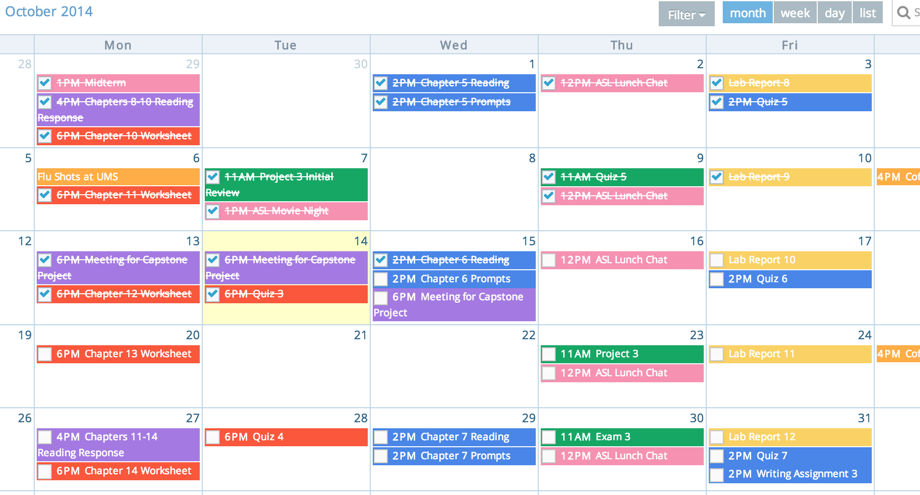
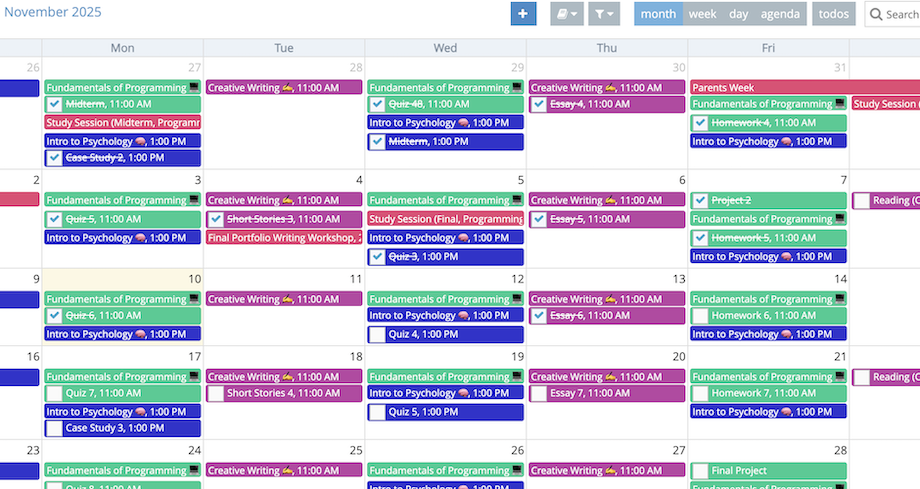
Updated screenshots to the modern UI.

diff --git a/src/templates/press.html b/src/templates/press.html
@@ -71,8 +71,8 @@
                         <div class="col-sm-4"><a href="{{ ASSETS_PREFIX }}/img/slider_5.png" target="_blank"><img
                                 src="{{ ASSETS_PREFIX }}/img/slider_5.png" class="thumbnail"
                             style="max-width: 200px"/></a></div>
-                        <div class="col-sm-4"><a href="{{ ASSETS_PREFIX }}/img/filter_view.png" target="_blank"><img
-                                src="{{ ASSETS_PREFIX }}/img/filter_view.png" class="thumbnail"
+                        <div class="col-sm-4"><a href="{{ ASSETS_PREFIX }}/img/slider_6.png" target="_blank"><img
+                                src="{{ ASSETS_PREFIX }}/img/slider_6.png" class="thumbnail"
                             style="max-width: 200px"/></a>
                         </div>
                         <div class="col-sm-4"><a href="{{ ASSETS_PREFIX }}/img/feature_4.png" target="_blank"><img
@@ -80,15 +80,15 @@
                             style="max-width: 200px; background: #438EB9;"/></a></div>
                     </div>
                     <div class="row">
-                        <div class="col-sm-4"><a href="{{ ASSETS_PREFIX }}/img/materials.png" target="_blank"><img
-                                src="{{ ASSETS_PREFIX }}/img/materials.png" class="thumbnail"
+                        <div class="col-sm-4"><a href="{{ ASSETS_PREFIX }}/img/feature_5.png" target="_blank"><img
+                                src="{{ ASSETS_PREFIX }}/img/feature_5.png" class="thumbnail"
                             style="max-width: 200px"/></a></div>
-                        <div class="col-sm-4"><a href="{{ ASSETS_PREFIX }}/img/grades_1.png" target="_blank"><img
-                                src="{{ ASSETS_PREFIX }}/img/grades_1.png" class="thumbnail"
+                        <div class="col-sm-4"><a href="{{ ASSETS_PREFIX }}/img/slider_3.png" target="_blank"><img
+                                src="{{ ASSETS_PREFIX }}/img/slider_3.png" class="thumbnail"
                             style="max-width: 200px"/></a>
                         </div>
-                        <div class="col-sm-4"><a href="{{ ASSETS_PREFIX }}/img/grades_2.png" target="_blank"><img
-                                src="{{ ASSETS_PREFIX }}/img/grades_2.png" class="thumbnail"
+                        <div class="col-sm-4"><a href="{{ ASSETS_PREFIX }}/img/slider_6.png" target="_blank"><img
+                                src="{{ ASSETS_PREFIX }}/img/slider_6.png" class="thumbnail"
                             style="max-width: 200px; background: #438EB9;"/></a></div>
                     </div>
                 </div>

diff --git a/src/templates/index.html b/src/templates/index.html
@@ -31,6 +31,9 @@
             <div class="item">
                 <img src="{{ ASSETS_PREFIX_VERSIONED }}/img/slider_5.png" class="thumbnail" alt="Slider 5"/>
             </div>
+            <div class="item">
+                <img src="{{ ASSETS_PREFIX_VERSIONED }}/img/slider_6.png" class="thumbnail" alt="Slider 5"/>
+            </div>
         </div>
         <a class="left carousel-control" href="#tour-carousel" role="button" data-slide="prev"><span
                 class="glyphicon blue glyphicon-chevron-left"></span></a>
